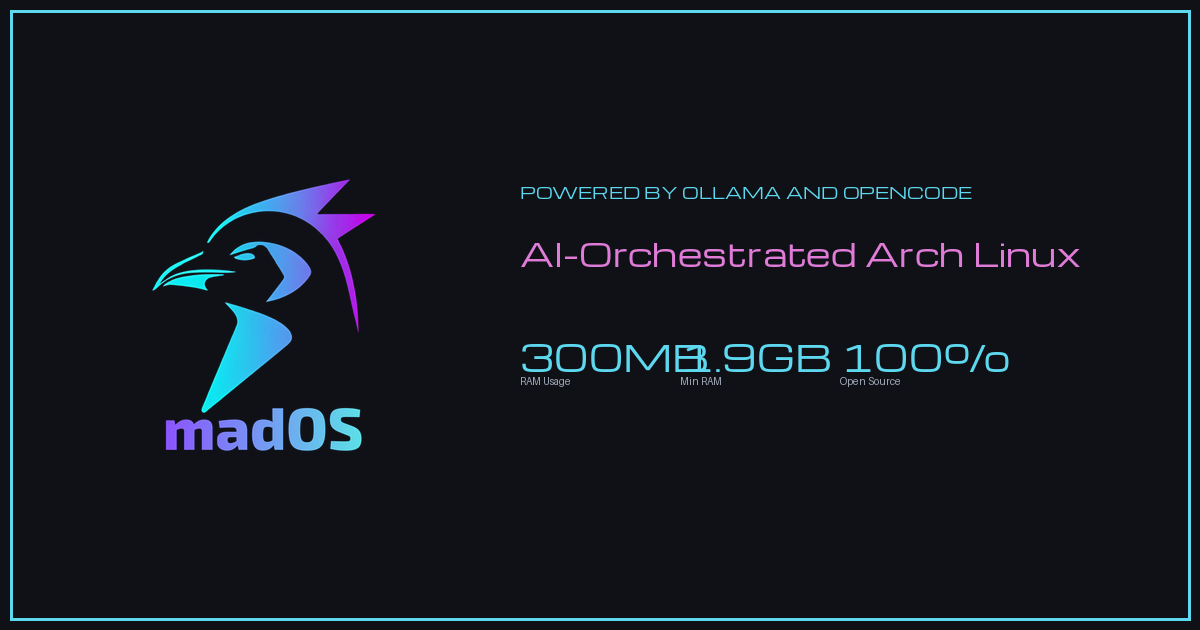
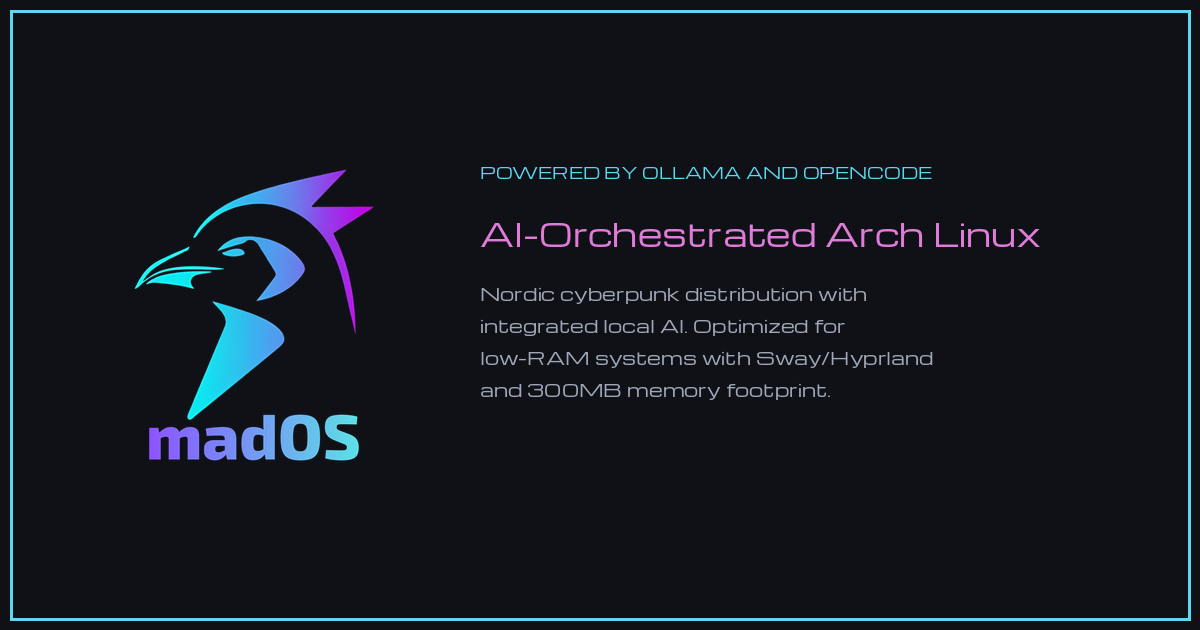
Update OG image with description instead of stats

diff --git a/generate_og.py b/generate_og.py
@@ -1,6 +1,6 @@
 #!/usr/bin/env python3
 """
-Generate OG Image for madOS - Two column layout
+Generate OG Image for madOS - Two column layout with description
 Logo on left, content on right
 """
 
@@ -21,17 +21,15 @@ def create_og_image():
         except:
             font_path = None
     
-    # Load fonts - smaller sizes
+    # Load fonts
     if font_path and os.path.exists(font_path):
         font_badge = ImageFont.truetype(font_path, 16)
         font_tagline = ImageFont.truetype(font_path, 32)
-        font_stats = ImageFont.truetype(font_path, 36)
+        font_desc = ImageFont.truetype(font_path, 18)
     else:
         font_badge = ImageFont.load_default()
         font_tagline = ImageFont.load_default()
-        font_stats = ImageFont.load_default()
-    
-    font_label = ImageFont.load_default()
+        font_desc = ImageFont.load_default()
     
     # Colors
     bg = (15, 17, 23)
@@ -48,16 +46,16 @@ def create_og_image():
     # Left column - Logo
     try:
         logo = Image.open('mados-logo.png')
-        logo = logo.resize((280, int(280 * logo.height / logo.width)), Image.Resampling.LANCZOS)
-        logo_x = 120
+        logo = logo.resize((300, int(300 * logo.height / logo.width)), Image.Resampling.LANCZOS)
+        logo_x = 100
         logo_y = (height - logo.height) // 2
         img.paste(logo, (logo_x, logo_y), logo if logo.mode == 'RGBA' else None)
     except:
         pass
     
     # Right column - Content
-    content_x = 520
-    content_y = 180
+    content_x = 480
+    content_y = 160
     
     # Badge
     badge_text = "POWERED BY OLLAMA AND OPENCODE"
@@ -67,20 +65,19 @@ def create_og_image():
     # Tagline
     tagline_text = "AI-Orchestrated Arch Linux"
     draw.text((content_x, content_y), tagline_text, font=font_tagline, fill=purple)
-    content_y += 100
+    content_y += 70
     
-    # Stats - horizontal
-    stats = [("300MB", "RAM Usage"), ("1.9GB", "Min RAM"), ("100%", "Open Source")]
-    stat_spacing = 160
+    # Description - multi-line
+    desc_lines = [
+        "Nordic cyberpunk distribution with",
+        "integrated local AI. Optimized for",
+        "low-RAM systems with Sway/Hyprland",
+        "and 300MB memory footprint."
+    ]
     
-    for i, (val, lbl) in enumerate(stats):
-        x = content_x + i * stat_spacing
-        
-        # Value
-        draw.text((x, content_y), val, font=font_stats, fill=cyan)
-        
-        # Label
-        draw.text((x, content_y + 45), lbl, font=font_label, fill=gray)
+    for line in desc_lines:
+        draw.text((content_x, content_y), line, font=font_desc, fill=gray)
+        content_y += 32
     
     # Border
     draw.rectangle([10, 10, width-10, height-10], outline=cyan, width=3)
